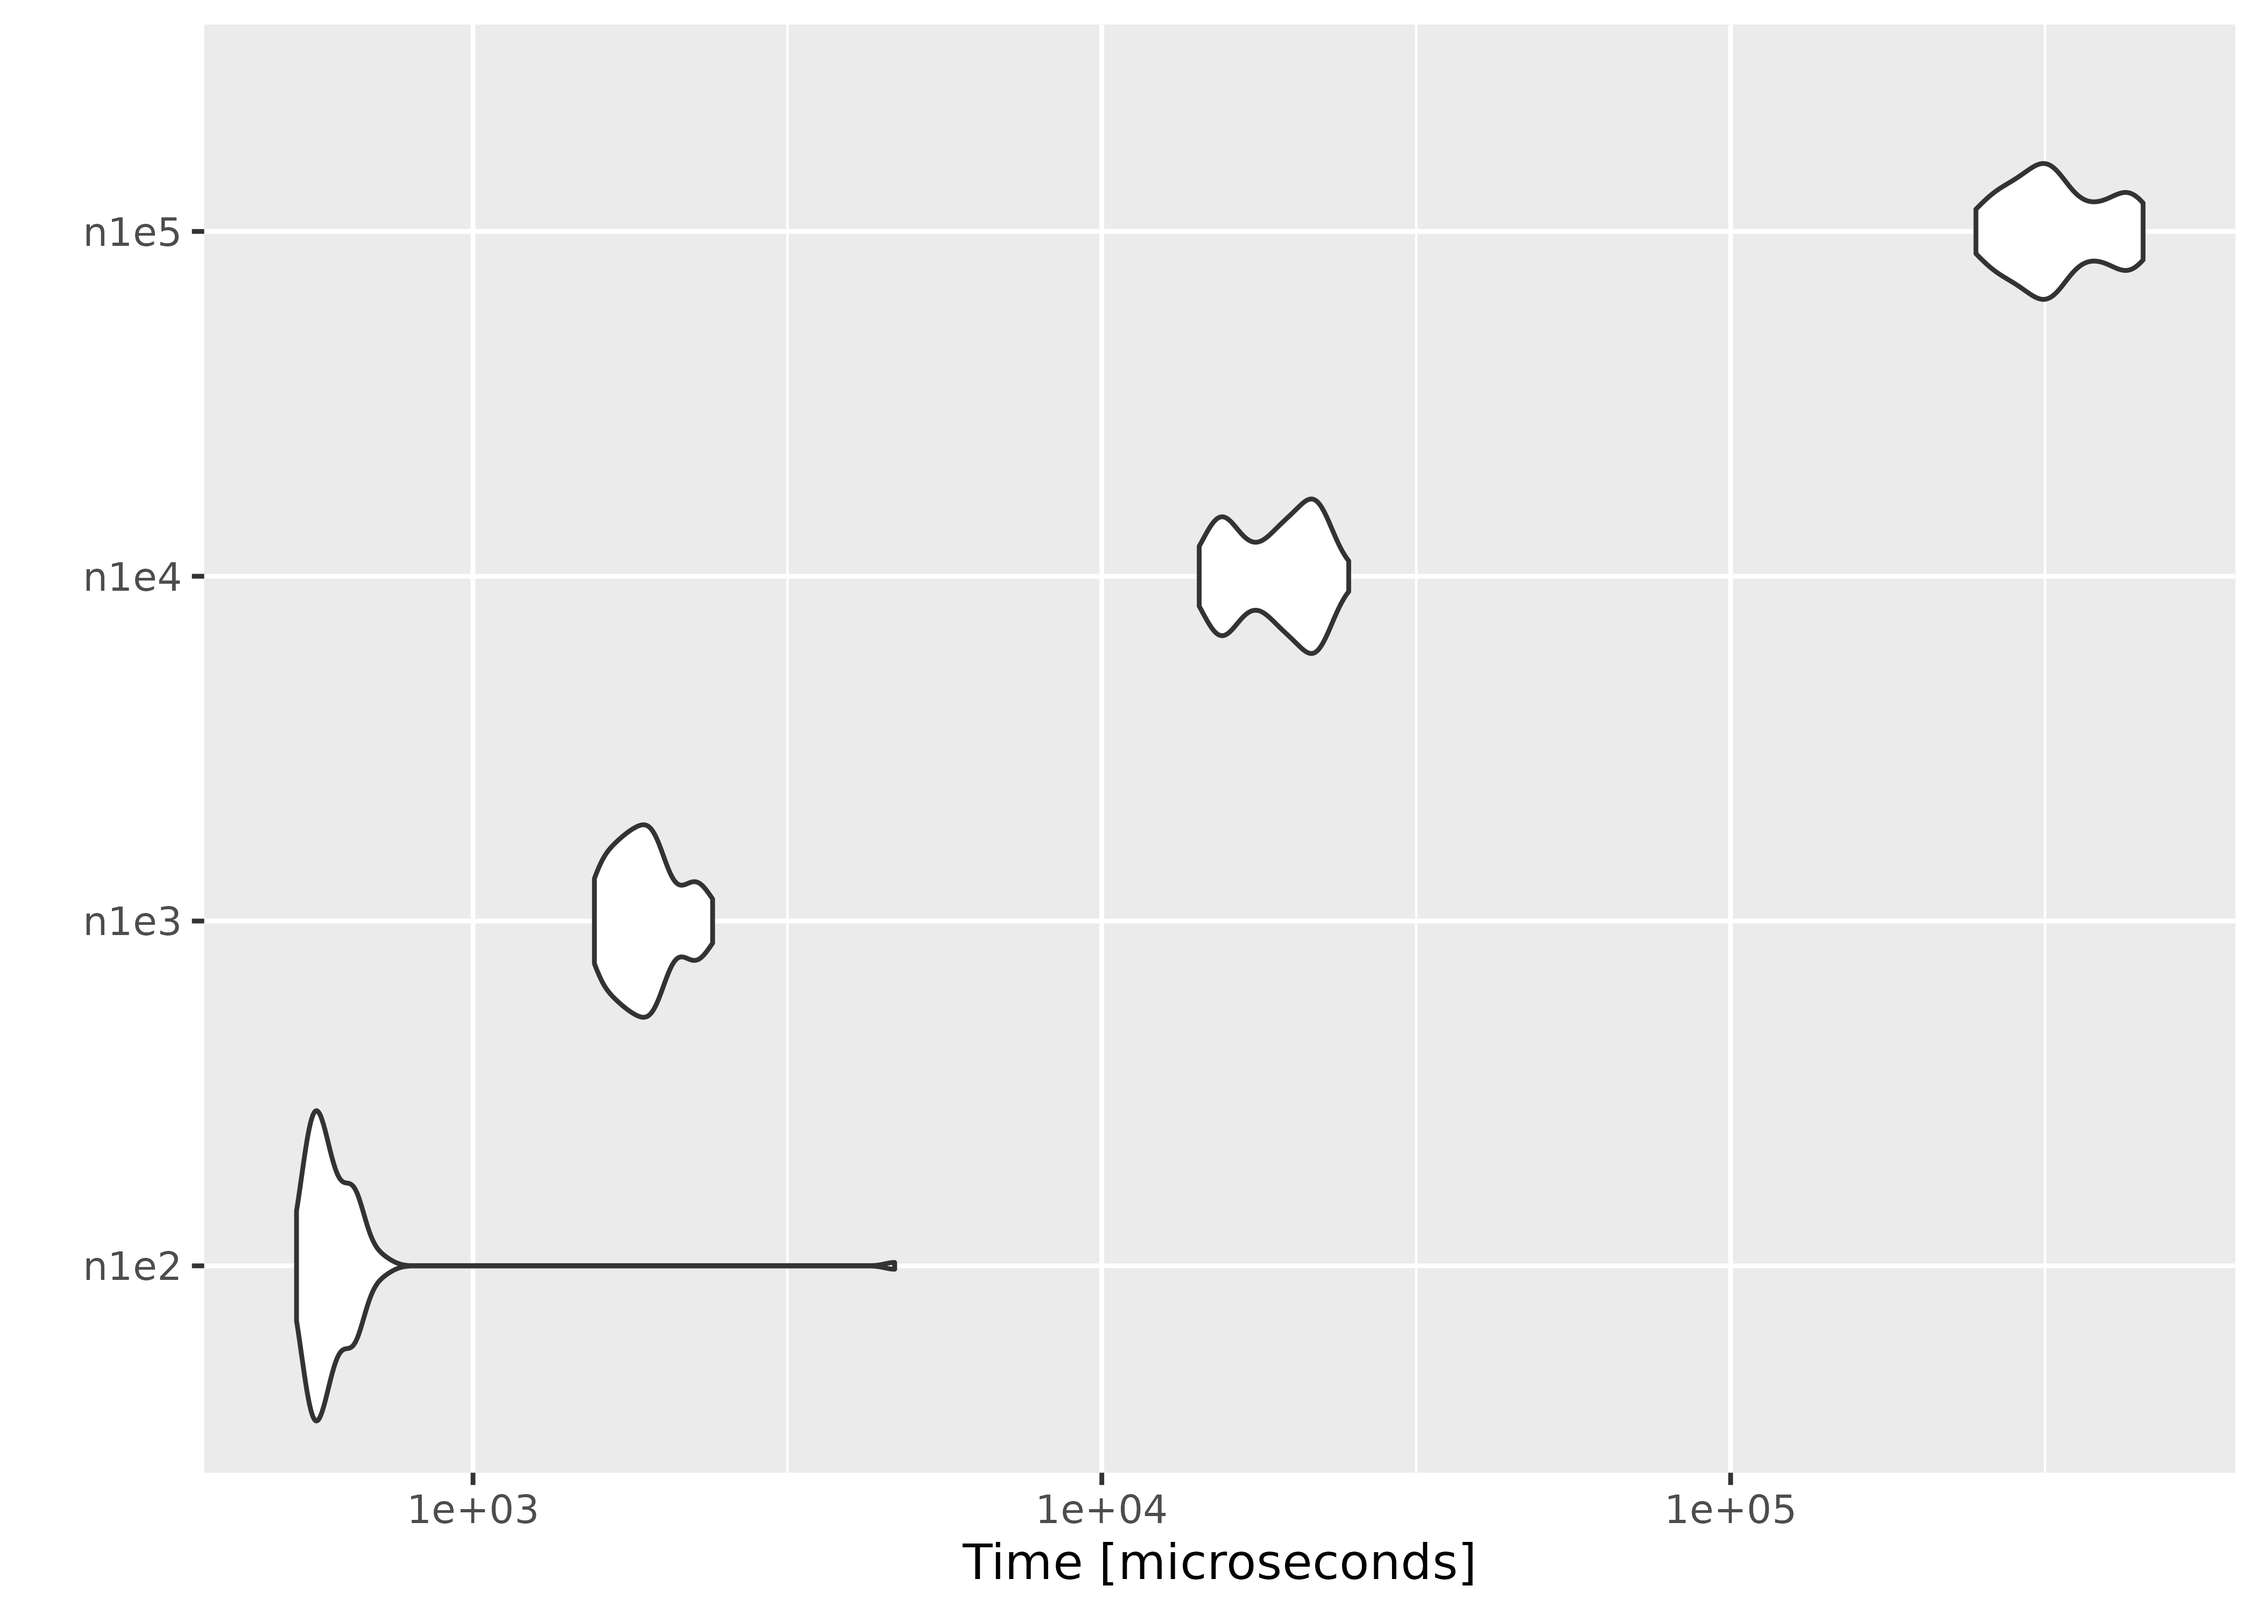
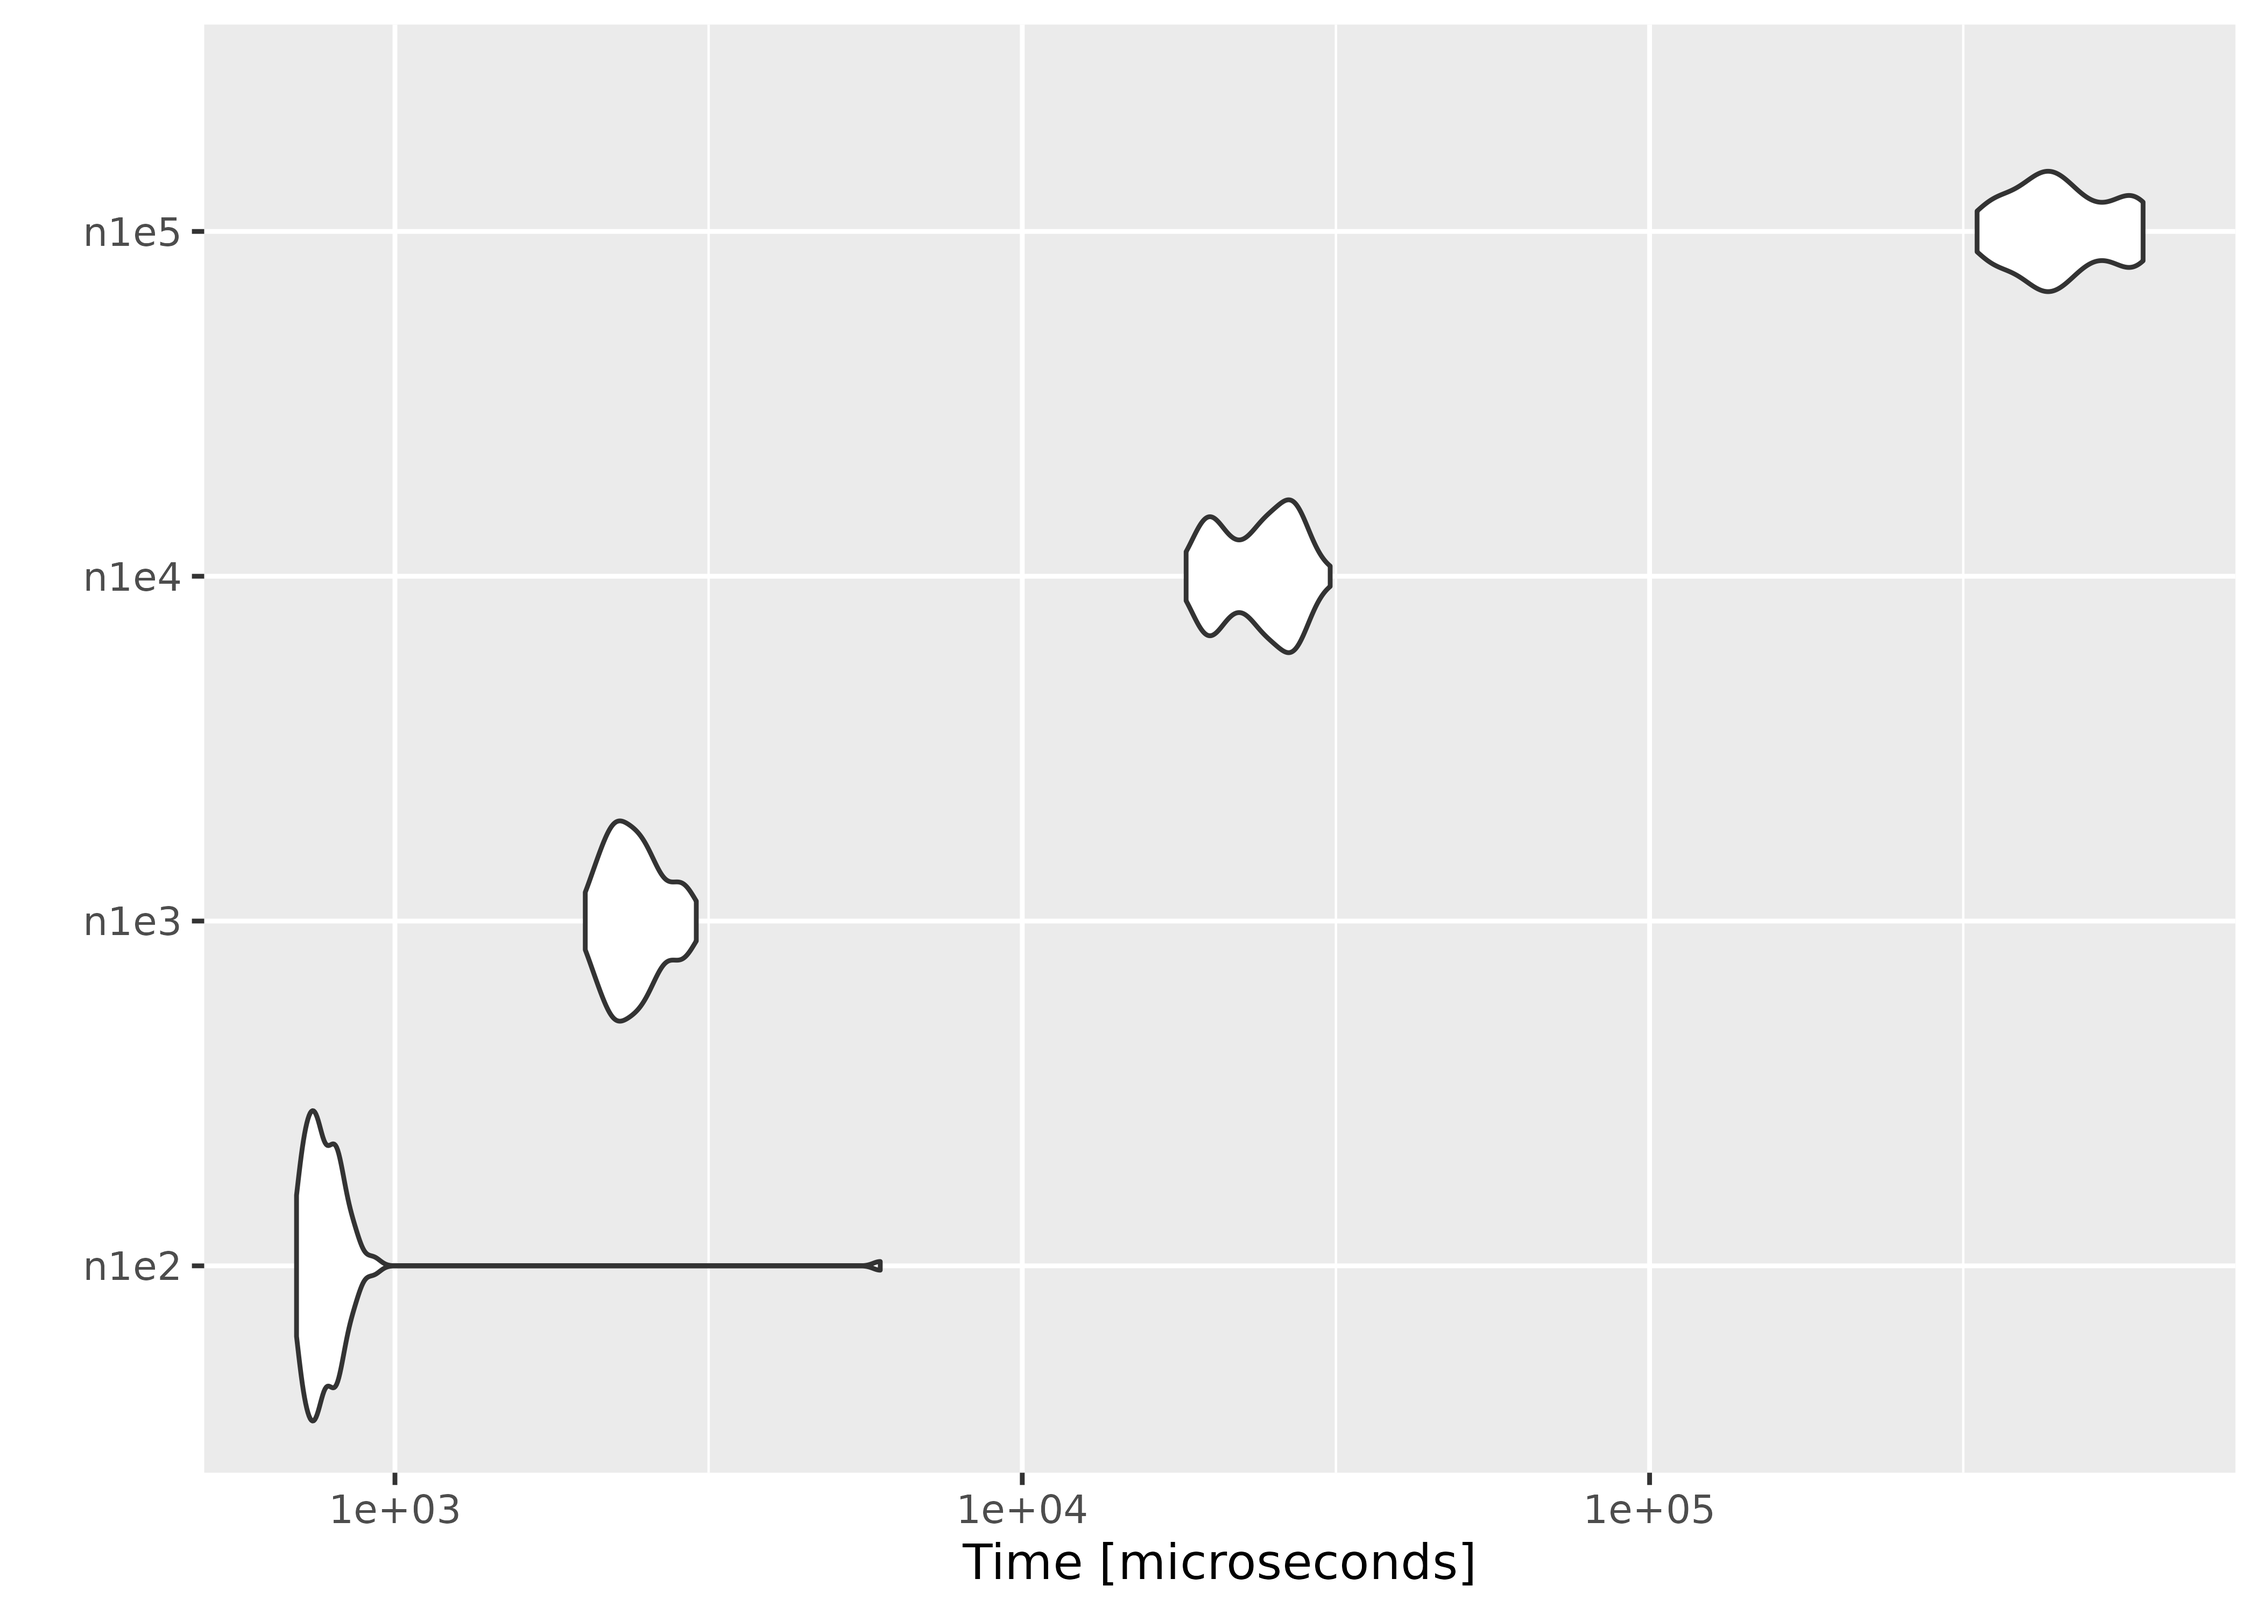
Deploying to gh-pages from @ ropensci/melt@b348cdac471b410c8f45dcd496fbd4ffa6ebeed6 🚀

diff --git a/articles/performance.html b/articles/performance.html
@@ -128,10 +128,10 @@
 <code class="sourceCode R"><span><span class="va">result</span></span>
 <span><span class="co">#&gt; Unit: microseconds</span></span>
 <span><span class="co">#&gt;  expr      min        lq       mean    median        uq      max neval</span></span>
-<span><span class="co">#&gt;  n1e2    524.0    556.95    632.904    578.40    634.75   4683.9   100</span></span>
-<span><span class="co">#&gt;  n1e3   1559.8   1701.75   1884.394   1858.95   1997.55   2404.6   100</span></span>
-<span><span class="co">#&gt;  n1e4  14285.5  15522.05  18984.153  19377.95  21647.05  24698.8   100</span></span>
-<span><span class="co">#&gt;  n1e5 245550.7 290168.75 335163.002 320289.55 381515.60 452885.4   100</span></span>
+<span><span class="co">#&gt;  n1e2    696.8    731.15    822.856    758.15    806.35   5937.7   100</span></span>
+<span><span class="co">#&gt;  n1e3   2010.8   2218.50   2413.746   2367.20   2555.45   3022.4   100</span></span>
+<span><span class="co">#&gt;  n1e4  18246.6  20072.80  23843.698  24191.10  26728.85  30961.5   100</span></span>
+<span><span class="co">#&gt;  n1e5 332683.1 397402.60 458675.475 439747.15 522440.65 611915.3   100</span></span>
 <span><span class="fu"><a href="https://ggplot2.tidyverse.org/reference/autoplot.html" class="external-link">autoplot</a></span><span class="op">(</span><span class="va">result</span><span class="op">)</span></span></code></pre></div>
 <p><img src="performance_files/figure-html/unnamed-chunk-3-1.png" width="100%" style="display: block; margin: auto;"></p>
 </div>
@@ -161,12 +161,12 @@
 <span><span class="op">)</span></span></code></pre></div>
 <div class="sourceCode" id="cb5"><pre class="downlit sourceCode r">
 <code class="sourceCode R"><span><span class="va">result2</span></span>
-<span><span class="co">#&gt; Unit: microseconds</span></span>
-<span><span class="co">#&gt;  expr      min        lq       mean    median       uq      max neval</span></span>
-<span><span class="co">#&gt;    p5    869.7    915.90    967.896    967.20   1009.9   1101.7   100</span></span>
-<span><span class="co">#&gt;   p25   3657.1   3736.85   3832.071   3760.05   3810.7   6535.1   100</span></span>
-<span><span class="co">#&gt;  p100  32148.7  35834.95  37959.723  36076.50  39708.6  61940.6   100</span></span>
-<span><span class="co">#&gt;  p400 389173.5 424689.75 478555.836 459466.55 495936.8 710591.8   100</span></span>
+<span><span class="co">#&gt; Unit: milliseconds</span></span>
+<span><span class="co">#&gt;  expr      min        lq       mean    median        uq      max neval</span></span>
+<span><span class="co">#&gt;    p5   1.1741   1.24125   1.304149   1.31290   1.34735   1.4796   100</span></span>
+<span><span class="co">#&gt;   p25   4.5725   4.72255   4.874383   4.78910   4.88340   8.5418   100</span></span>
+<span><span class="co">#&gt;  p100  36.7370  40.69750  42.999075  40.95115  44.75695  68.2648   100</span></span>
+<span><span class="co">#&gt;  p400 424.1169 462.43965 521.414134 500.53405 541.00530 772.5948   100</span></span>
 <span><span class="fu"><a href="https://ggplot2.tidyverse.org/reference/autoplot.html" class="external-link">autoplot</a></span><span class="op">(</span><span class="va">result2</span><span class="op">)</span></span></code></pre></div>
 <p><img src="performance_files/figure-html/unnamed-chunk-5-1.png" width="100%" style="display: block; margin: auto;"> On average, evaluating empirical likelihood with a 100000×10 or 1000×400 matrix at a parameter value satisfying the convex hull constraint takes less than a second.</p>
 </div>
